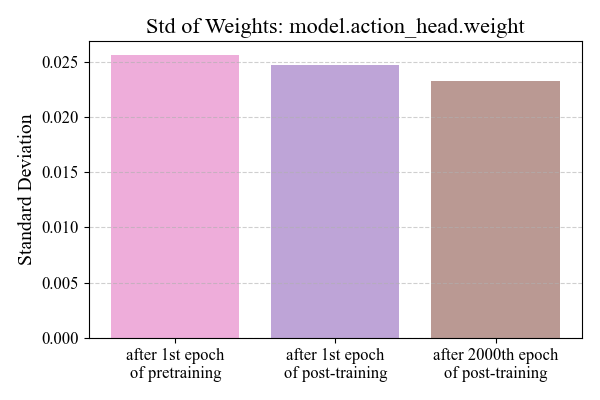
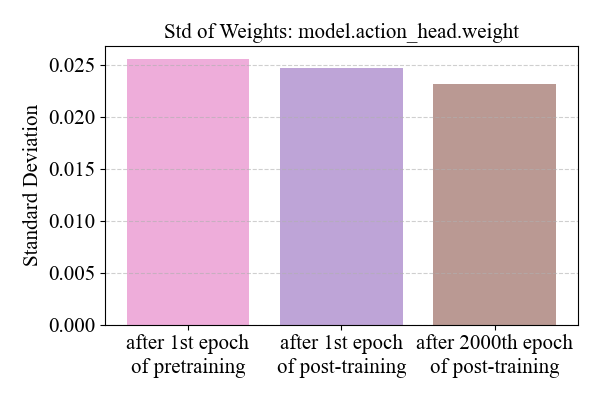
260402_1114 260401 KTCP (kiise) first modifying submission raw

Changed region(s): [[0.03, 0.03, 0.99, 0.96]]

diff --git a/compare_w.py b/compare_w.py
@@ -6,11 +6,11 @@ plt.rcParams['font.family'] = 'Times New Roman'
 plt.rcParams['font.size'] = 15
 
 plt.rcParams.update({
-    'font.size': 12,        # 기본 글자 크기
-    'axes.titlesize': 16,   # 제목
-    'axes.labelsize': 14,   # x, y 라벨
-    'xtick.labelsize': 12,  # x축 눈금
-    'ytick.labelsize': 12,  # y축 눈금
+    'font.size': 15,        # 기본 글자 크기
+    'axes.titlesize': 15,   # 제목
+    'axes.labelsize': 15,   # x, y 라벨
+    'xtick.labelsize': 15,  # x축 눈금
+    'ytick.labelsize': 15,  # y축 눈금
     'legend.fontsize': 12   # 범례
 })
 
@@ -136,7 +136,7 @@ for w_name in common_keys:
     all_max = max(arr.max() for arr in tensors)
 
     # ----- (1) 히스토그램: 한 그래프에 여러 히스토그램을 겹쳐 그리기 -----
-    fig, ax = plt.subplots(figsize=(8, 4))
+    fig, ax = plt.subplots(figsize=(9, 3))
 
     num_bins = 100
     for i, arr in enumerate(tensors):

diff --git a/std_bar.py b/std_bar.py
@@ -67,7 +67,7 @@ bar_labels = [
 
 # ===== Plot =====
 plt.figure(figsize=(7, 5))
-bars = plt.bar(x, value_list, color=bar_colors, alpha=0.4)
+bars = plt.bar(x, value_list, color=bar_colors, alpha=0.6)
 
 # bar 위 텍스트 라벨
 for i, (rect, val) in enumerate(zip(bars, value_list)):
@@ -75,11 +75,11 @@ for i, (rect, val) in enumerate(zip(bars, value_list)):
 
 # ===== Legend 추가 =====
 from matplotlib.patches import Patch
-legend_handles = [Patch(facecolor=colors[i], label=bar_labels[i], alpha=0.4) for i in range(3)]
+legend_handles = [Patch(facecolor=colors[i], label=bar_labels[i], alpha=0.6) for i in range(3)]
 plt.legend(handles=legend_handles, loc='upper right')
 
 plt.xticks(group_positions, group_labels)
-plt.xlabel("Learning strategy")
+#plt.xlabel("Pretraining strategy")
 plt.ylabel("Std of action-head layer weights")
 plt.title("Changes in weight distributions before and after training")
 plt.ylim(0.0, 0.035)

diff --git a/mk_fig/action_data_plot.py b/mk_fig/action_data_plot.py
@@ -38,4 +38,7 @@ plt.title("Joint position changes in waist of right arm action data")
 plt.legend()
 plt.grid(True)
 #plt.show()
+ax = plt.gca()
+ax.spines['right'].set_visible(False)
+ax.spines['top'].set_visible(False)
 plt.savefig("action_first_element_comparison.png", dpi=200, bbox_inches="tight")
